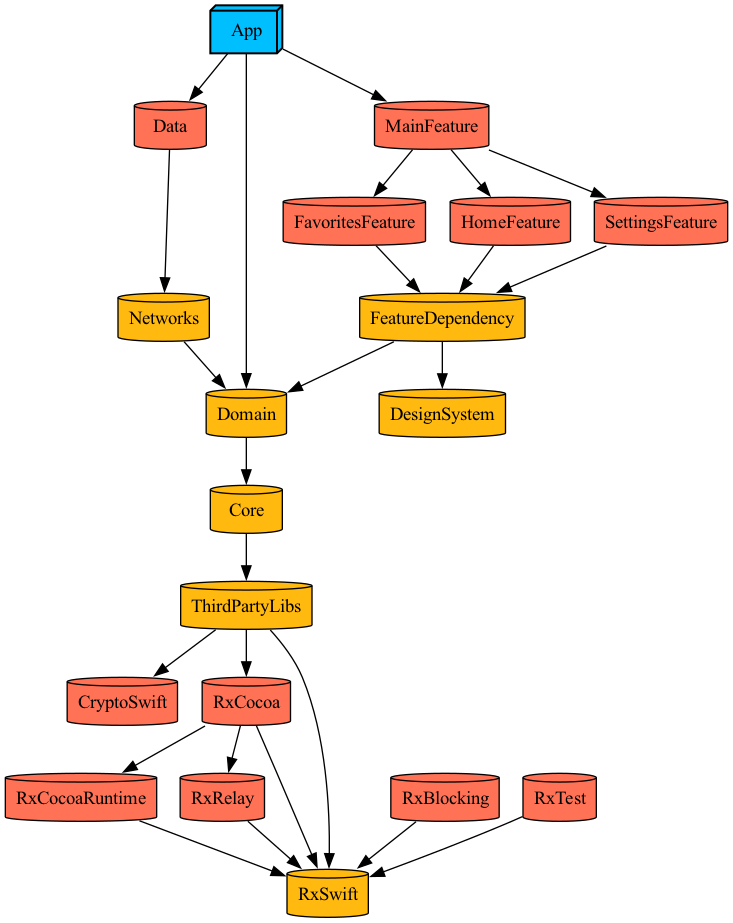
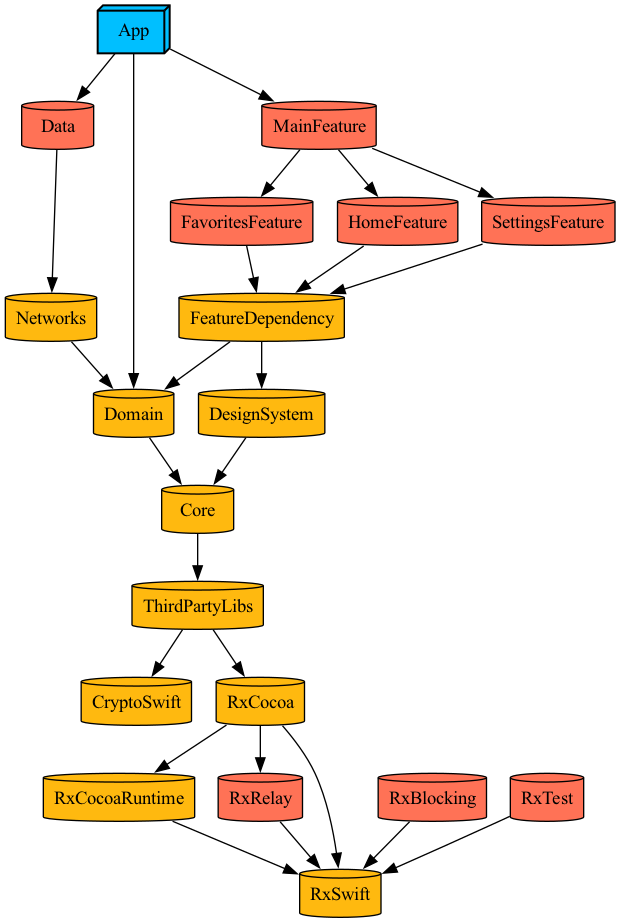
[Fix] WebSocketService 불필요한 코드 제거 및 에러처리 수정, [Setting] RxSwift 모듈 의존관계 수정

Changed region(s): [[0.0, 0.0, 1.0, 1.0]]

diff --git a/Projects/Networks/Sources/WebSocketService/DefaultWebSocketService.swift b/Projects/Networks/Sources/WebSocketService/DefaultWebSocketService.swift
@@ -18,11 +18,8 @@ public final class DefaultWebSocketService: NSObject, WebSocketService {
     }
     
     private var timer: Timer?
-    private var disposeBag = DisposeBag()
     
     public let receivedMessage = PublishSubject<(String?, Data?)>()
-    public let didOpenWith = { }
-    public let didCloesWith = { }
     
     public override init() { }
     
@@ -43,7 +40,7 @@ public final class DefaultWebSocketService: NSObject, WebSocketService {
                     self?.receivedMessage.onError(WebSocketError.unknownMessage)
                 }
             case .failure(let error):
-                self?.receivedMessage.onError(error)
+                self?.receivedMessage.onError(WebSocketError.sendError(error))
             }
             self?.receive()
         }
@@ -117,7 +114,6 @@ extension DefaultWebSocketService: URLSessionWebSocketDelegate {
         didOpenWithProtocol protocol: String?
     ) {
         print("open")
-        didOpenWith()
     }
     
     public func urlSession(
@@ -127,6 +123,5 @@ extension DefaultWebSocketService: URLSessionWebSocketDelegate {
         reason: Data?
     ) {
         print("close")
-        didCloesWith()
     }
 }

diff --git a/Tuist/Dependencies.swift b/Tuist/Dependencies.swift
@@ -35,16 +35,8 @@ let dependencies = Dependencies(
                 url: $0.url,
                 requirement: .upToNextMajor(from: $0.upToNextMajor)
             )
-        }
-//        ,
-//        productTypes: thirdParty
+        },
+        productTypes: thirdParty
     ),
     platforms: [.iOS]
 )
-//SwiftPackageManagerDependencies(
-//    <#T##packages: [Package]##[Package]#>,
-//    productTypes: <#T##[String : Product]#>,
-//    baseSettings: <#T##Settings#>,
-//    targetSettings: <#T##[String : SettingsDictionary]#>,
-//    projectOptions: <#T##[String : Project.Options]#>
-//)

diff --git a/Plugins/DependencyPlugin/ProjectDescriptionHelpers/Dependency+ThirdPartyExternal.swift b/Plugins/DependencyPlugin/ProjectDescriptionHelpers/Dependency+ThirdPartyExternal.swift
@@ -9,12 +9,13 @@ import ProjectDescription
 
 public extension Array<TargetDependency> {
     enum ThirdPartyExternal: CaseIterable {
-        case rxSwift, rxCocoa, cryptoSwift
+//        case rxSwift 
+        case rxCocoa, cryptoSwift
         
         public var name: String {
             switch self {
-            case .rxSwift:
-                return "RxSwift"
+//            case .rxSwift:
+//                return "RxSwift"
             case .rxCocoa:
                 return "RxCocoa"
             case .cryptoSwift:

diff --git a/Projects/Feature/HomeFeature/Sources/Coordinator/DefaultHomeCoordinator.swift b/Projects/Feature/HomeFeature/Sources/Coordinator/DefaultHomeCoordinator.swift
@@ -43,9 +43,10 @@ public extension DefaultHomeCoordinator {
     }
     
     func startSearchStocksFlow() {
-        let defaultSearchStocksCoordinator = DefaultSearchStocksCoordinator(
+        let searchStocksCoordinator = DefaultSearchStocksCoordinator(
             navigationController: navigationController
         )
-        defaultSearchStocksCoordinator.start()
+        childCoordinators.append(searchStocksCoordinator)
+        searchStocksCoordinator.start()
     }
 }

diff --git a/Projects/Data/Sources/Repository/DefualtKISRealTimePriceRepository.swift b/Projects/Data/Sources/Repository/DefualtKISRealTimePriceRepository.swift
@@ -55,7 +55,7 @@ public final class DefualtKISRealTimePriceRepository
                            ) {
                             let iv = response.body.output.iv
                             let key = response.body.output.key
-                            AES256.configAES(iv: iv, key: key)
+                            AES256Manager.configAES(iv: iv, key: key)
                         }
                     } else {
                         guard let price = str

diff --git a/Projects/Networks/Sources/Error/WebSocketError.swift b/Projects/Networks/Sources/Error/WebSocketError.swift
@@ -9,11 +9,14 @@
 import Foundation
 
 enum WebSocketError: LocalizedError {
+    case sendError(Error)
     case invalidURL
     case unknownMessage
     
     var errorDescription: String? {
         switch self {
+        case .sendError(let error):
+            return "에러: \(error.localizedDescription)"
         case .invalidURL:
             return "유효하지 않은 URL입니다."
         case .unknownMessage:

diff --git a/Projects/Data/Sources/DataMapping/KISRealTimePriceDTO.swift b/Projects/Data/Sources/DataMapping/KISRealTimePriceDTO.swift
@@ -106,7 +106,6 @@ struct KISRealTimePriceDTO: Codable {
               let any = try? JSONSerialization.jsonObject(with: data)
         else { return nil }
         if JSONSerialization.isValidJSONObject(any) {
-            print(any)
             guard let result = try? data.decode(type: KISRealTimePriceDTO.self)
             else { return nil }
             self = result

diff --git a/Projects/Core/Sources/AES/AES256Manager.swift b/Projects/Core/Sources/AES/AES256Manager.swift
@@ -1,5 +1,5 @@
 //
-//  AES256.swift
+//  AES256Manager.swift
 //  Core
 //
 //  Created by gnksbm on 2024/01/04.
@@ -9,7 +9,7 @@
 import Foundation
 import CryptoSwift
 
-public class AES256 {
+public class AES256Manager {
     private static var key = ""
     private static var iv = ""
     private static var aes: AES {

diff --git a/Projects/Networks/Sources/WebSocketService/WebSocketService.swift b/Projects/Networks/Sources/WebSocketService/WebSocketService.swift
@@ -13,9 +13,6 @@ import RxSwift
 public protocol WebSocketService {
     var receivedMessage: PublishSubject<(String?, Data?)> { get }
     
-    var didOpenWith: () -> Void { get }
-    var didCloesWith: () -> Void { get }
-    
     func open(endPoint: WSEndPoint)
     func close()
     func send(_ str: String)

diff --git a/Projects/Core/Sources/Candle.swift b/Projects/Core/Sources/Candle.swift
@@ -62,7 +62,6 @@ public extension [Candle] {
     
     var lowestPrice: Double {
         guard let first = first?.lowestPrice else {
-            print("nil")
             return 0
         }
         var lowestPrice = first
